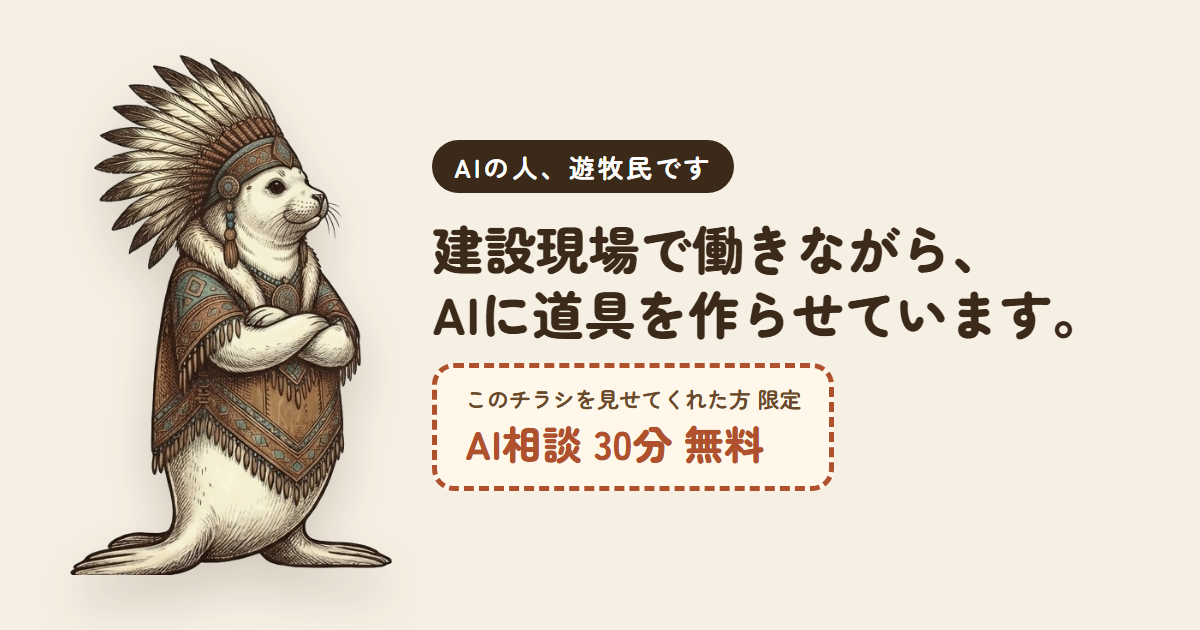
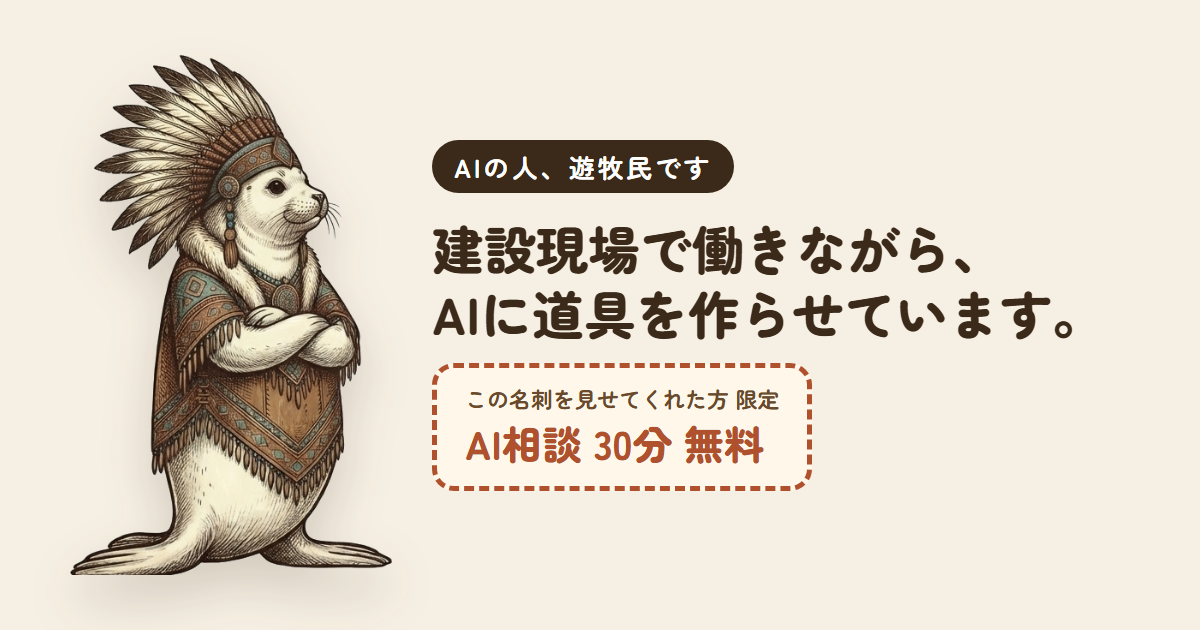
AR page only: seal stands + libecity profile button. Hub, listings redirect, test files removed

Changed region(s): [[0.4317, 0.573, 0.7092, 0.6635], [0.6475, 0.7238, 0.7092, 0.7841]]

diff --git a/index.html b/index.html
@@ -38,7 +38,7 @@
     .btn .sub{display:block;font-size:12px;font-weight:700;opacity:.85}
     .primary{background:var(--teal);color:#fff}
     .ghost{background:rgba(255,250,242,.94);color:var(--ink);font-size:14px;padding:12px 18px;box-shadow:none}
-    .gift{position:fixed;left:12px;right:12px;bottom:150px;z-index:9;background:rgba(255,247,234,.94);border:2px dashed var(--rust);border-radius:14px;padding:8px 12px;font-size:13px;color:var(--ink);text-align:center;line-height:1.45}
+    .gift{position:fixed;left:12px;right:12px;bottom:96px;z-index:9;background:rgba(255,247,234,.94);border:2px dashed var(--rust);border-radius:14px;padding:8px 12px;font-size:13px;color:var(--ink);text-align:center;line-height:1.45}
     .gift b{color:var(--rust);font-size:16px}
     #fallback{display:none;position:fixed;inset:0;z-index:5;background:var(--bg);text-align:center;padding-top:90px}
     #fallback img{width:52vw;max-width:220px}
@@ -54,10 +54,9 @@
 
   <div class="gift">🎁 この名刺を見せてくれた方限定 <b>AI相談 30分 無料</b><br>チャットで「名刺見ました」と一言ください</div>
   <div id="panel">
-    <a class="btn primary" href="https://libecity.com/app_redirect?path=mypage/points?send_uid=c0bL05vIXaYL1a2dpMrWYBSbGEI3" target="_blank" rel="noopener">
+    <a class="btn primary" href="https://libecity.com/user_profile/c0bL05vIXaYL1a2dpMrWYBSbGEI3" target="_blank" rel="noopener">
       <span>リベシティのプロフィールを見る<span class="sub">フォロー・チャットはこちらから</span></span><span>→</span>
     </a>
-    <a class="btn ghost" href="m/" target="_blank" rel="noopener"><span>出品している道具を見る(スキルマーケット)</span><span>→</span></a>
   </div>
 
   <a-scene
